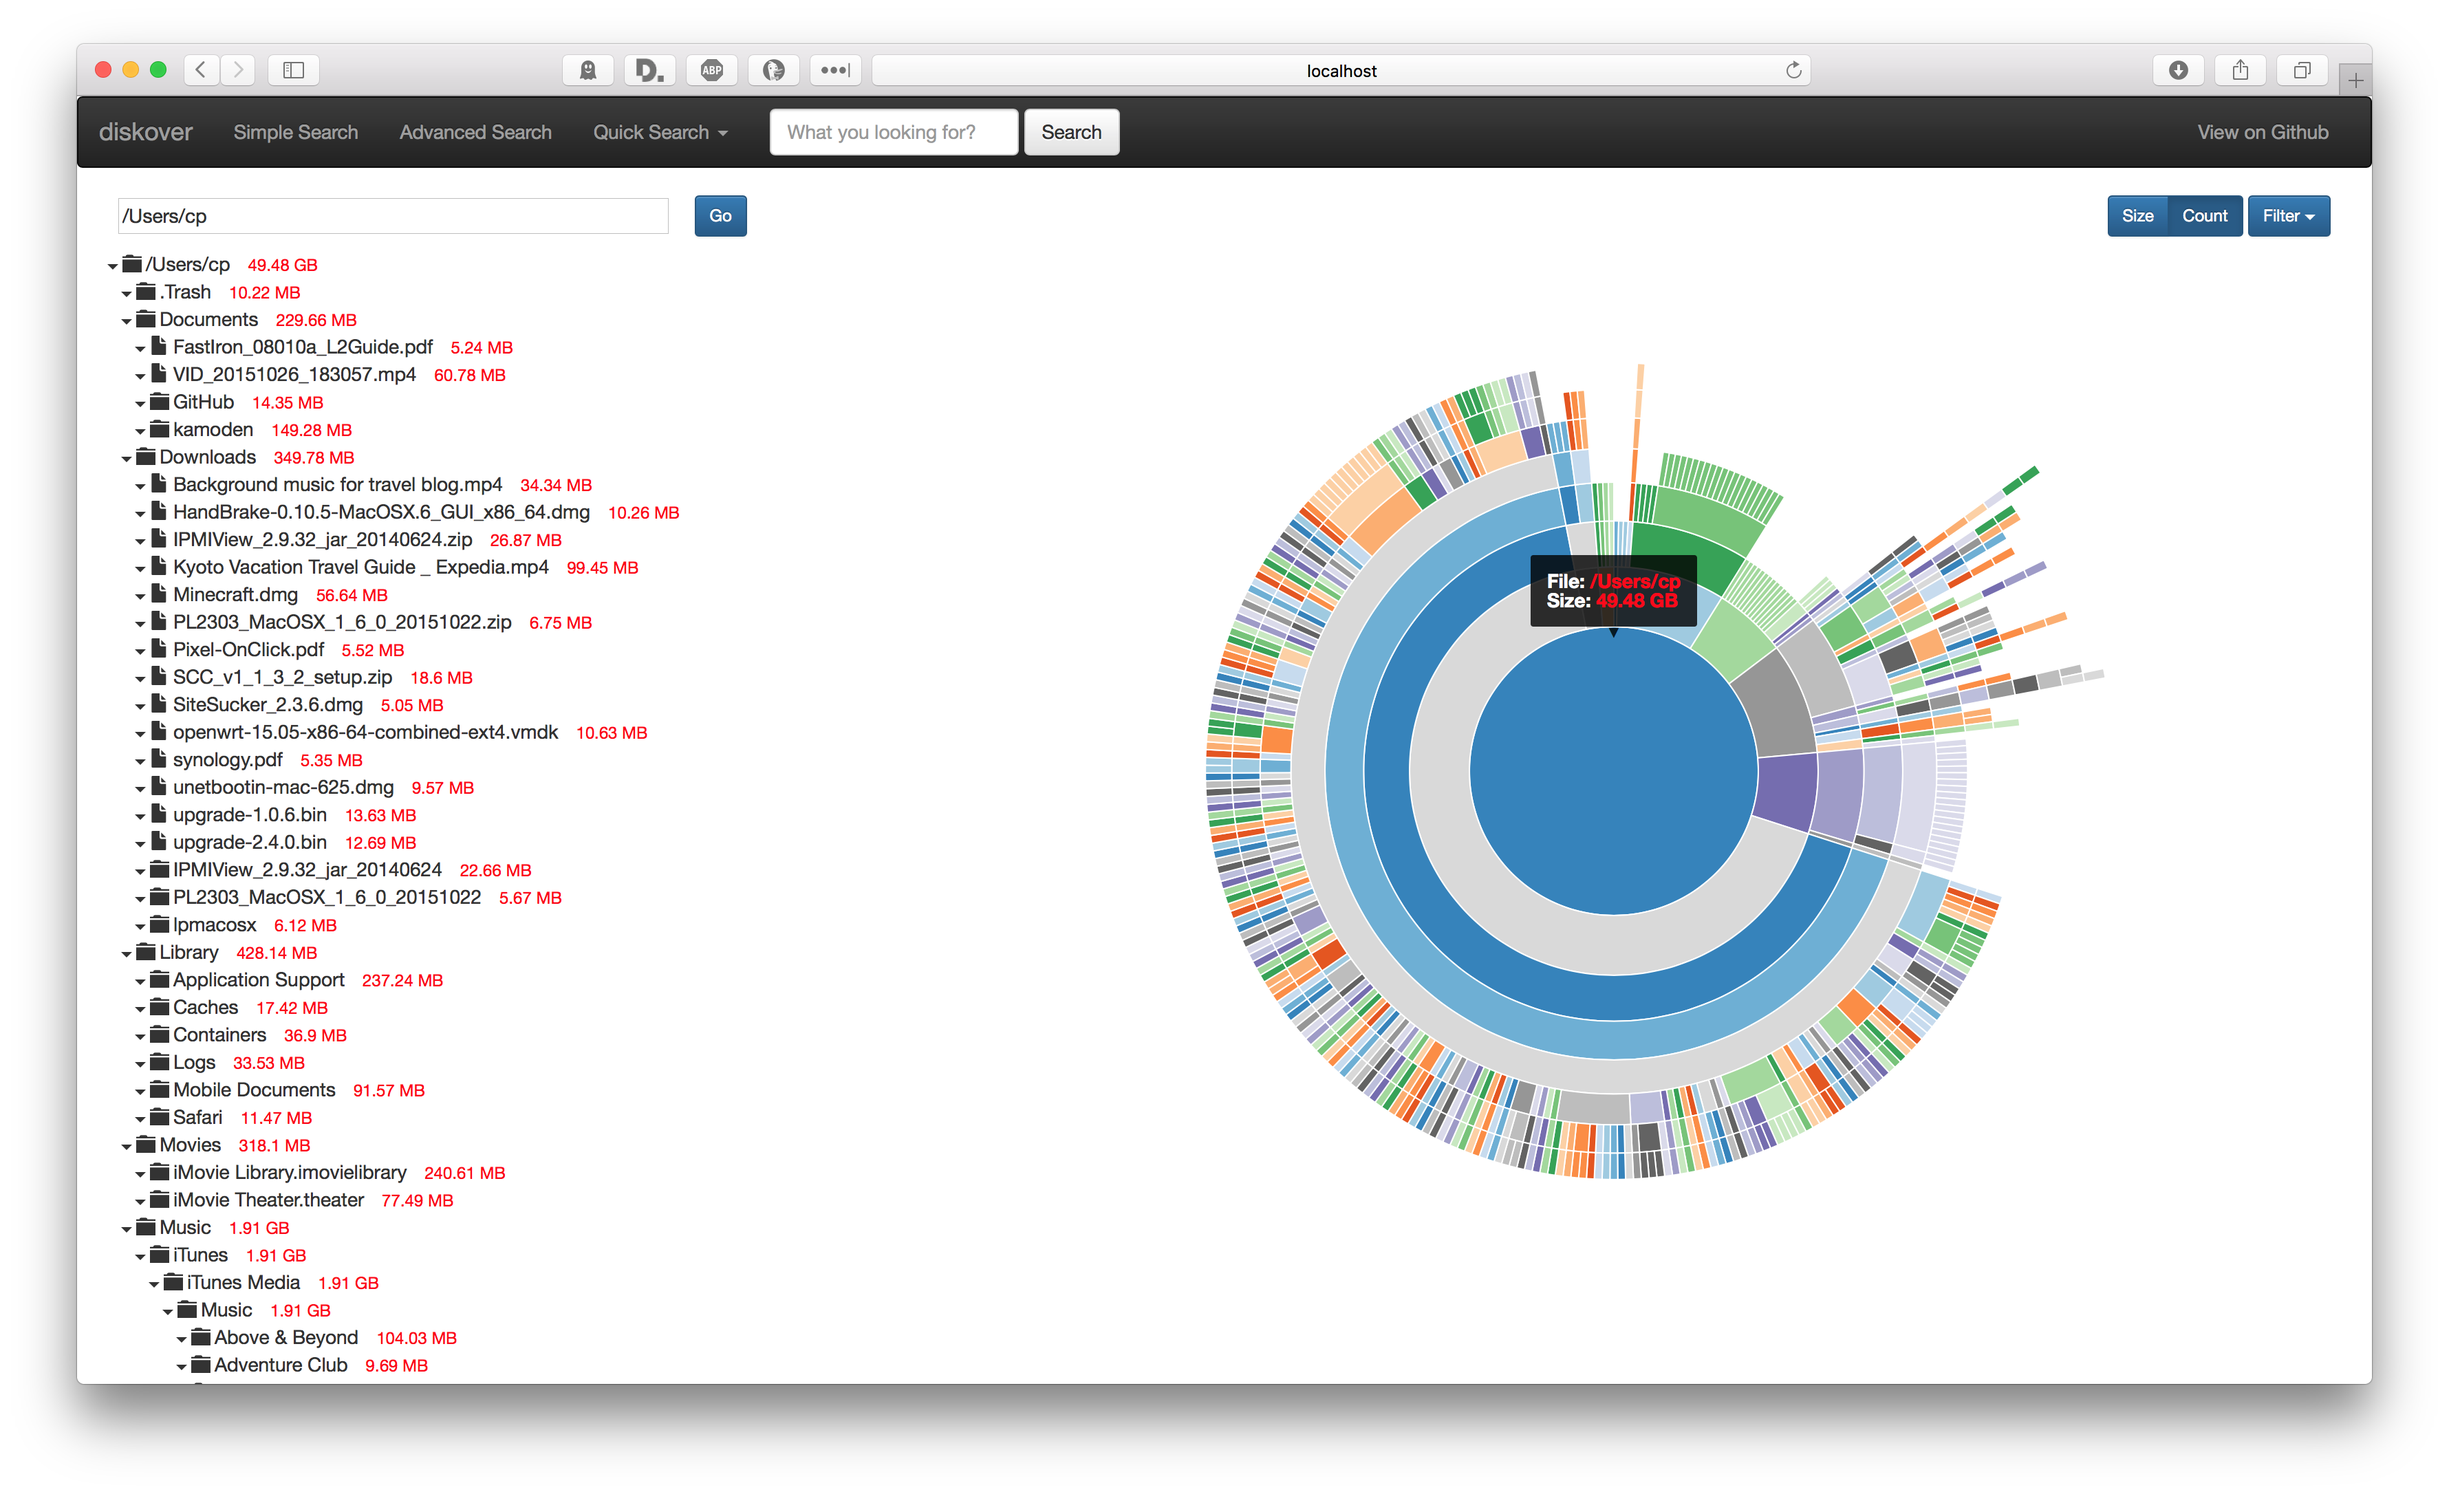
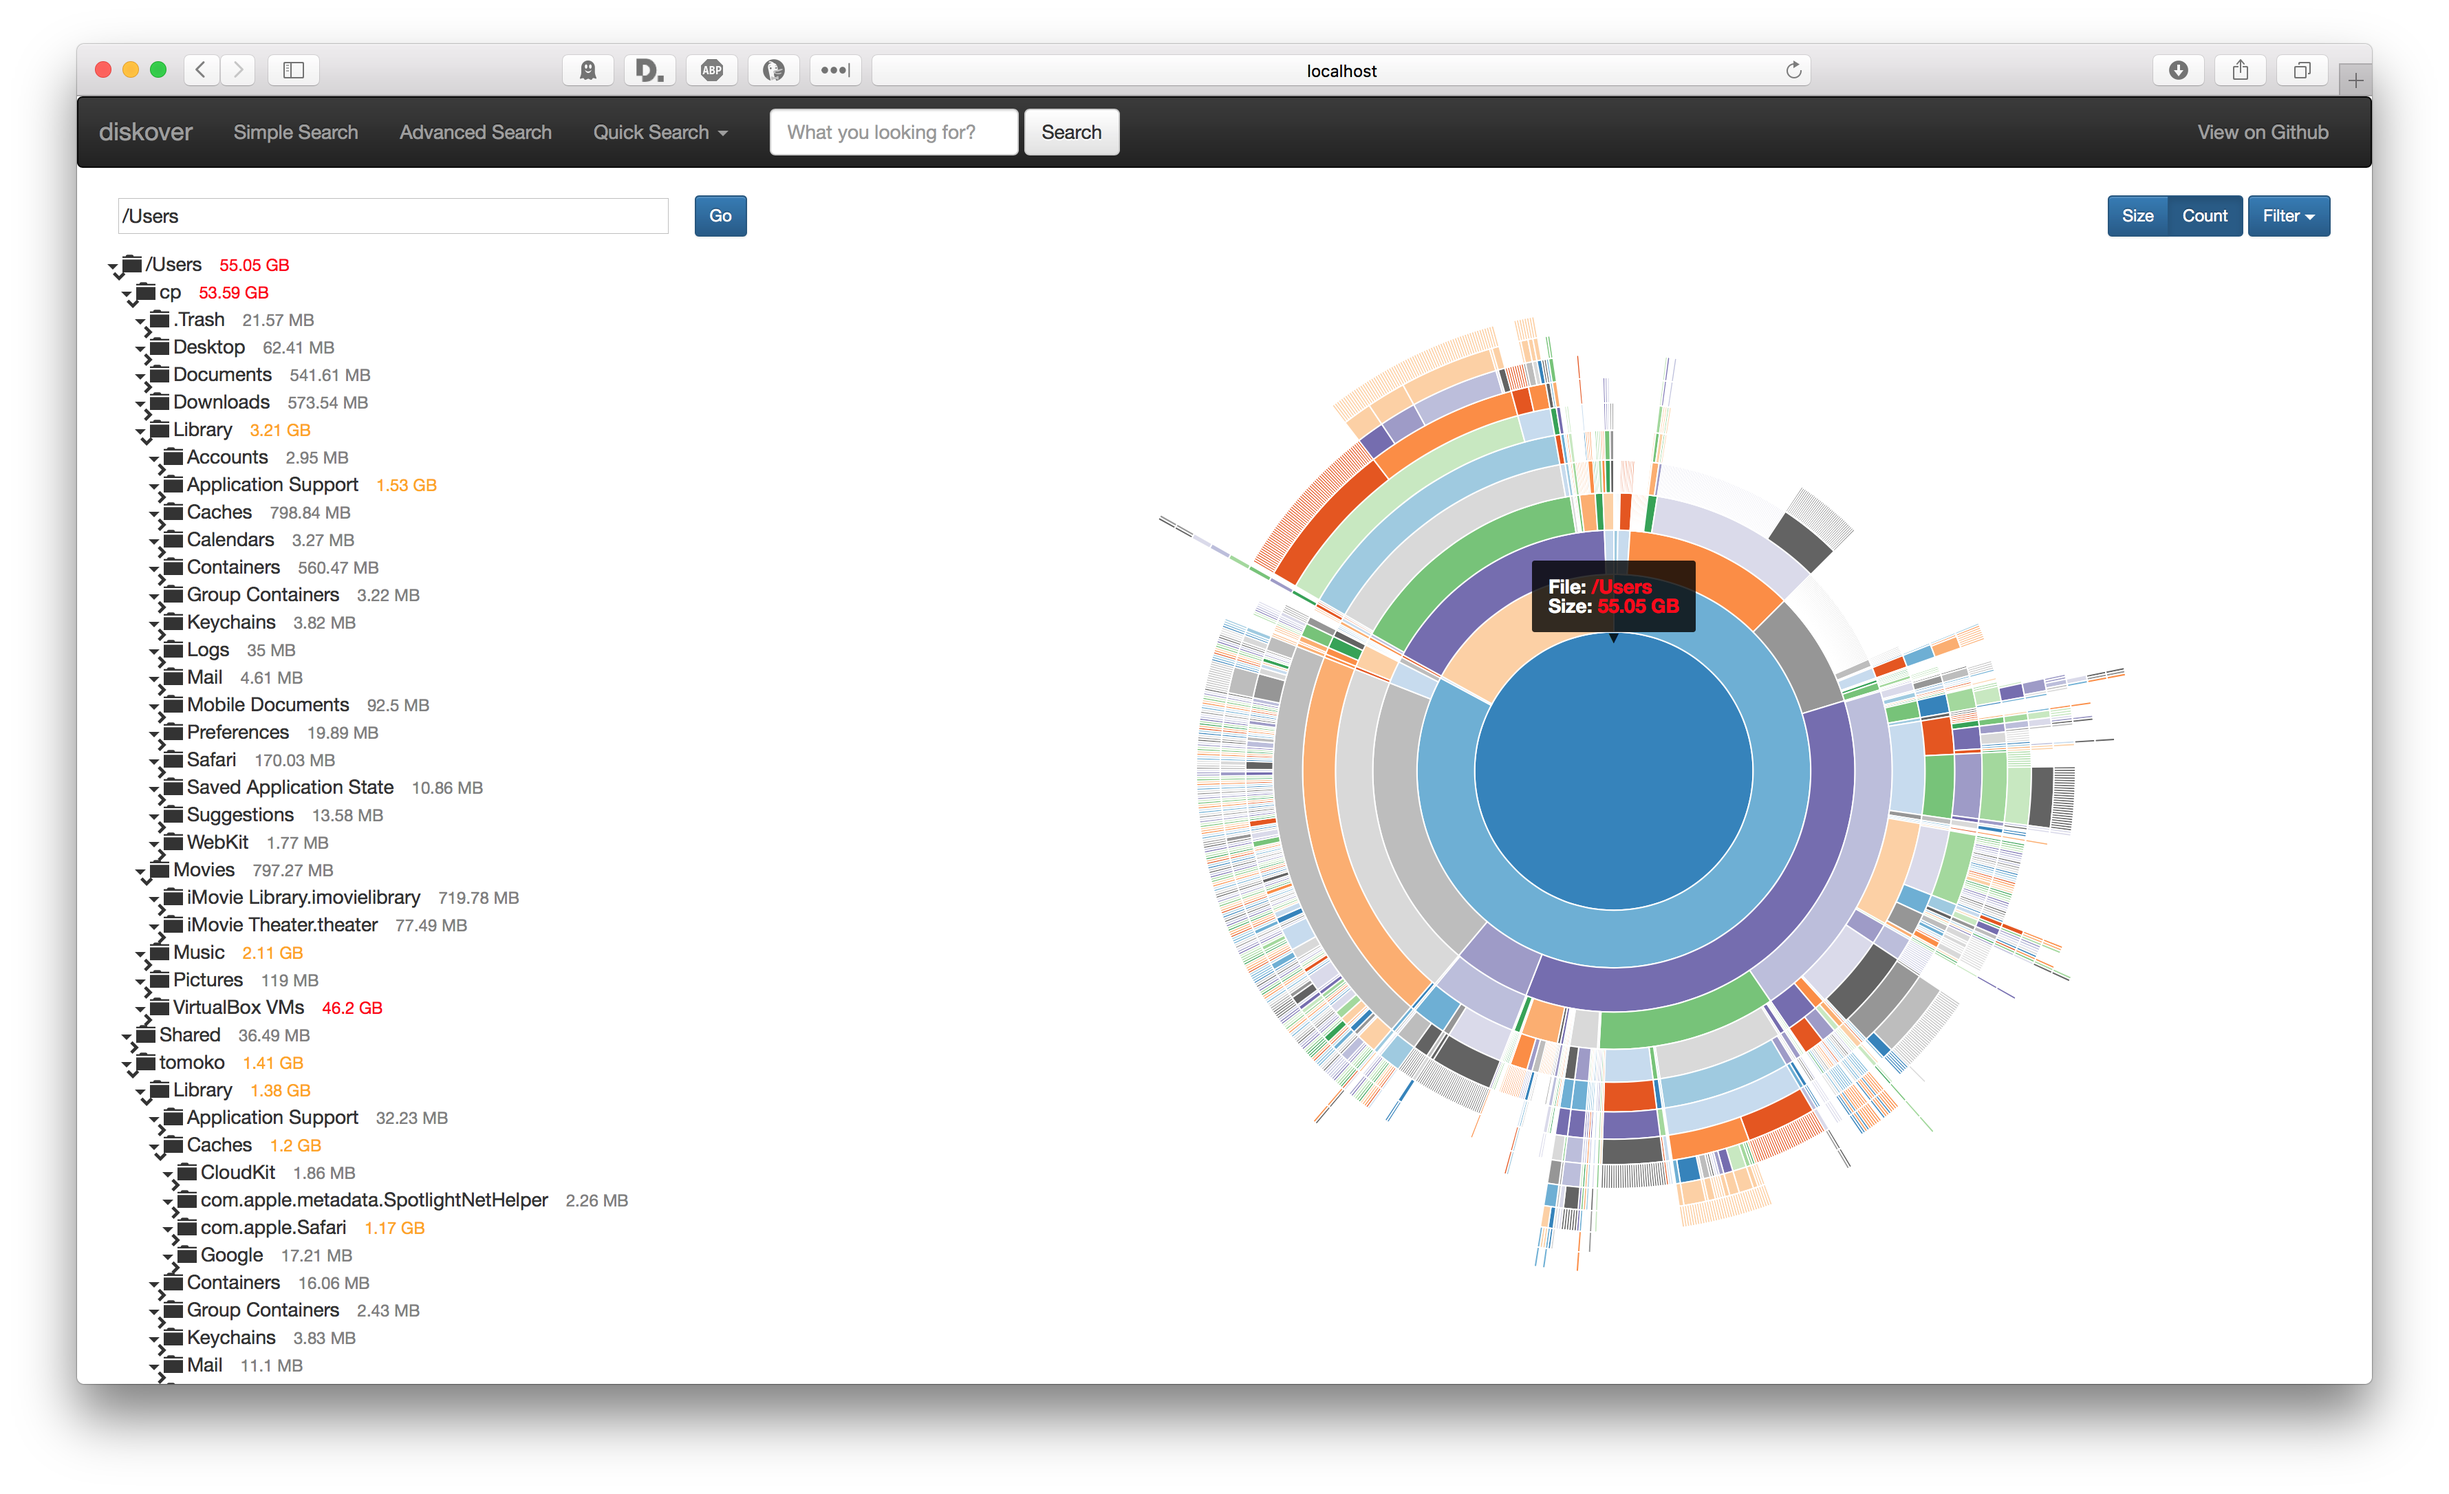
v1.1.5

Changed region(s): [[0.4677, 0.2159, 0.873, 0.8329], [0.0312, 0.1542, 0.2806, 0.9254]]

diff --git a/public/sunburst.php b/public/sunburst.php
@@ -44,8 +44,26 @@ if (!empty($_GET['filter'])) {
   font-size: 10px;
 }
 
-.node .filesize {
+.node .filesize-red {
   color: red;
+  font-size: 12px;
+  padding-left: 10px;
+}
+	
+.node .filesize-orange {
+  color: orangered;
+  font-size: 12px;
+  padding-left: 10px;
+}
+	
+.node .filesize-yellow {
+  color: orange;
+  font-size: 12px;
+  padding-left: 10px;
+}
+	
+.node .filesize-gray {
+  color: gray;
   font-size: 12px;
   padding-left: 10px;
 }
@@ -98,7 +116,7 @@ if (!empty($_GET['filter'])) {
 <div class="container-fluid">
   <div class="row">
     <div class="col-xs-4" id="tree-container">
-			<form class="form-inline">
+			<form class="form-inline" id="path-container" style="display:none;">
 			<div class="form-group">
 				<div class="col-xs-12">
 					<input type="text" name="path" id="path" class="path" value="<?php echo $path; ?>">
@@ -183,6 +201,8 @@ function init() {
         } else if (data.info) {
             document.getElementById('info').style.display = 'block';
         } else {
+					// show path input
+					document.getElementById('path-container').style.display = 'block';
           // show iframe
           document.getElementById('sunburst-container').style.display = 'block';
           // instantiate chart within callback
@@ -267,9 +287,20 @@ function updateTree(data, parent) {
   //add text
   entered.append("span").attr("class", "filename")
       .html(function (d) { return d.name; });
-  //add filesize
-  entered.append("span").attr("class", "filesize")
-      .html(function (d) { return formatBytes(d.size); });
+	//add filesize
+  entered.append("span").attr("class", function (d) {
+				if (d.size > 10737418240) {
+						var fileclass = "filesize-red";
+				} else if (d.size > 5368709120 && d.size < 10737418240) {
+						var fileclass = "filesize-orange";
+				} else if (d.size > 1073741824 && d.size < 5368709120) {
+						var fileclass = "filesize-yellow";
+				} else {
+						var fileclass = "filesize-gray";
+				}
+				return fileclass;
+	})
+	.html(function (d) { return formatBytes(d.size); });
   //update caret direction
   nodeEls.select("span.caret").attr("class", function (d) {
       var icon = d.children ? " glyphicon-chevron-down"

diff --git a/public/d3_data.php b/public/d3_data.php
@@ -31,11 +31,13 @@ function get_files($client, $path, $filter) {
           'analyze_wildcard' => 'true',
           'query' => 'path_parent:' . $path . '* AND filesize:>' . $filter
         ]
-      ]
+      ],
+			'sort' => [
+				'filesize' => [
+					'order' => 'desc'
+				]
+			]
   ];
-	
-	// Sort by filename
-	$searchParams['sort'] = 'filename';
 
   // Send search query to Elasticsearch and get scroll id and first page of results
   $queryResponse = $client->search($searchParams);
@@ -44,7 +46,7 @@ function get_files($client, $path, $filter) {
   $total = $queryResponse['hits']['total'];
 
   // check if too many files
-  if ($total > 1000000) {
+  if ($total > 100000) {
     echo json_encode([ "warning" => "too many files, choose a different path" ]);
     exit;
   }
@@ -163,7 +165,7 @@ function get_files_by_file_size($client, $files, $path, $type) {
   }
 	
 	// sort subdirs
-	sort($subdirs);
+	natcasesort($subdirs);
 
   // loop through all subdirs and add to items array
   foreach ($subdirs as $d) {

diff --git a/CHANGELOG.md b/CHANGELOG.md
@@ -6,9 +6,10 @@
 - sunburst now moves when window scrolled (long directory tree)
 - input field to change path in sunburst directory tree
 - search results "Parent Path" column now has filter by and view sunburst/dirtree buttons
+- sunburst directory tree sizes are colored based on size
 ### changed
 - sunburst directory tree now shows files as well as directories
-- sunburst directory tree is now sorted by name/type
+- sunburst directory tree directories are sorted by name, files are sorted by size
 ### fixed
 - removed word wrap for long paths in sunburst directory tree
 - sunburst iframe scroll bars displaying sometimes
